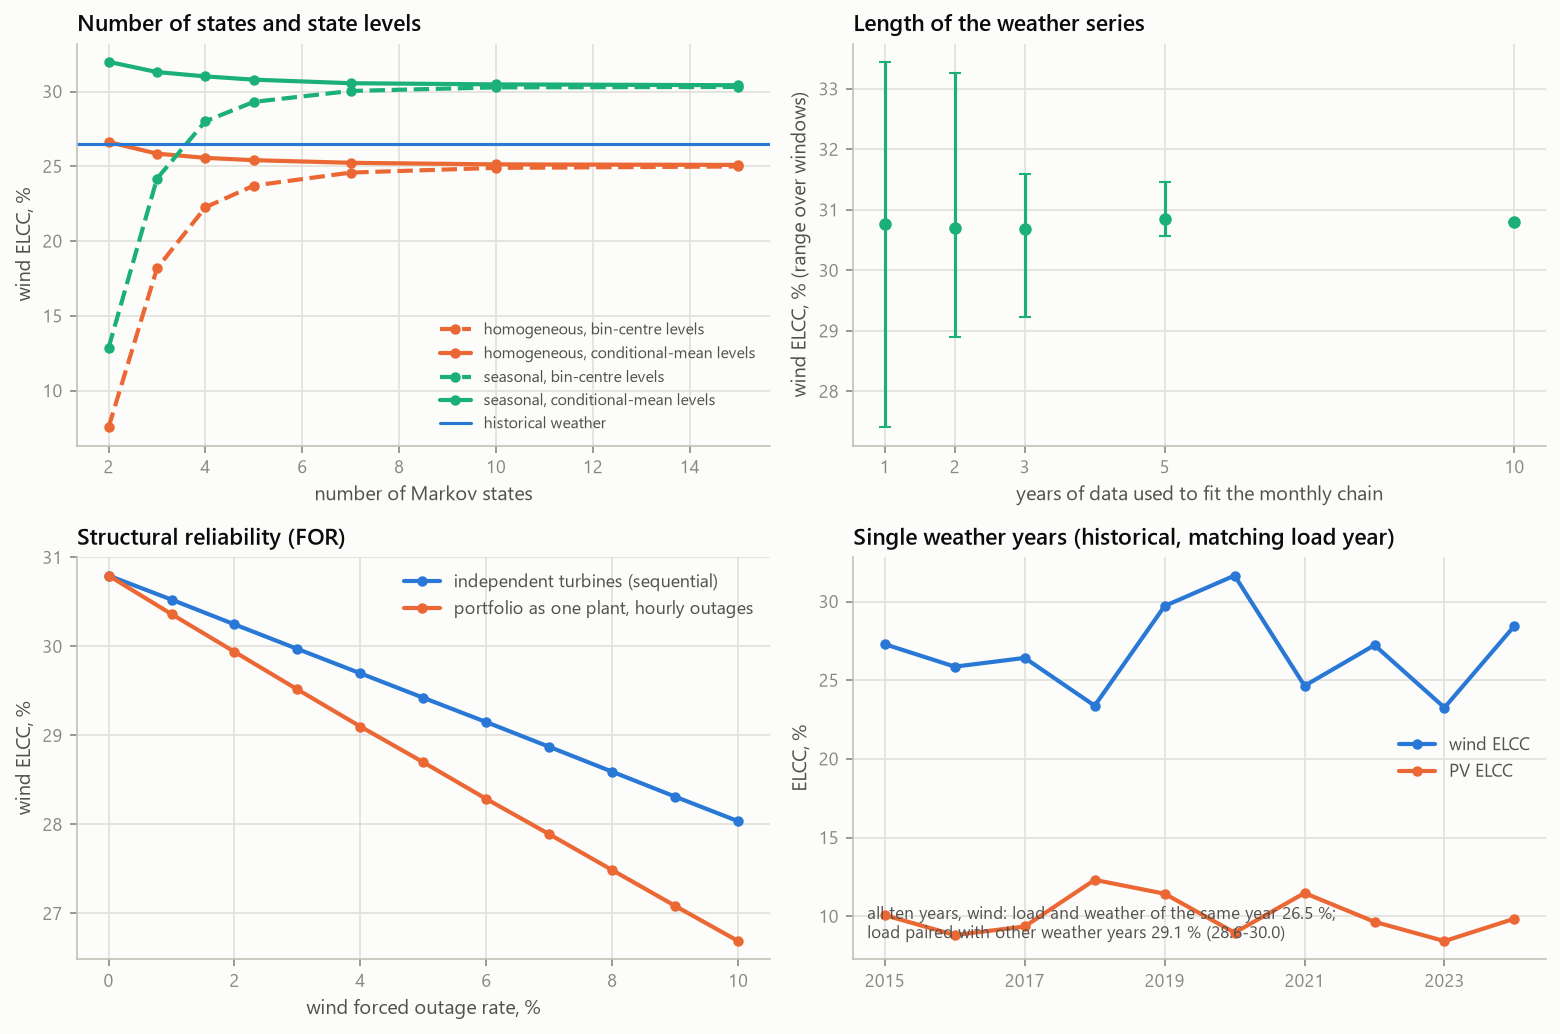
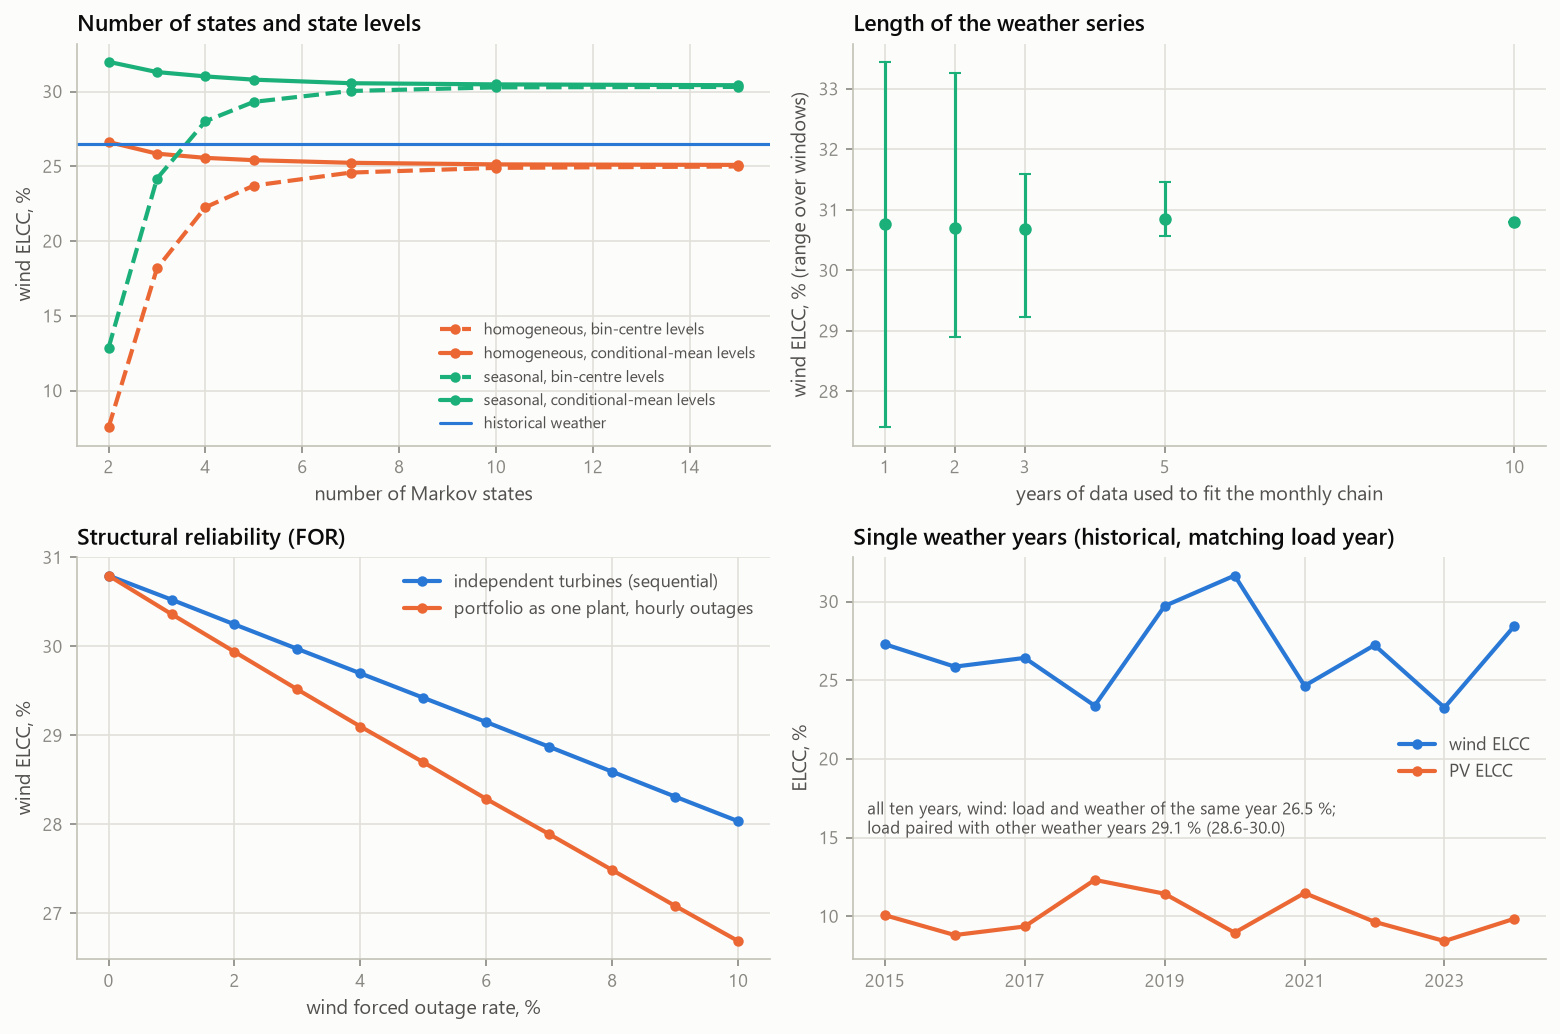
Charts: readable log ticks on the LOLE charts, labels off the curves
The dashboard's LOLE axes label only 1, 2 and 5 per decade (the 7, 8 and 9 labels overlapped). In the
README charts the KWD wind label and the weather-pairing note no longer sit on the PV curves.

Changed region(s): [[0.5538, 0.8665, 0.8615, 0.9284], [0.5538, 0.7737, 0.8615, 0.8046]]

diff --git a/docs/index.html b/docs/index.html
@@ -357,7 +357,7 @@ function drawLole() {
       hovertemplate: mix + ', ' + (model === 'hist' ? 'historical' : 'Markov monthly') + '<br>%{x:.0f} % of peak: LOLE %{y:.2f} h/yr<extra></extra>'});
   }
   const lay = base();
-  lay.yaxis = Object.assign(lay.yaxis, {type: 'log', title: {text: 'LOLE, h/yr'}});
+  lay.yaxis = Object.assign(lay.yaxis, {type: 'log', dtick: 'D2', title: {text: 'LOLE, h/yr'}});  // 1-2-5 labels only
   lay.xaxis = Object.assign(lay.xaxis, {title: {text: 'RES capacity, % of peak load'}});
   lay.shapes = [{type: 'line', xref: 'paper', x0: 0, x1: 1, y0: 3, y1: 3, line: {color: css('--muted'), width: 1, dash: 'dot'}}];
   Plotly.react('lole', tr, lay, cfg);
@@ -537,7 +537,7 @@ function drawStorageLulls() {
       hovertemplate: WM[m][1] + '<br>%{x:.0f} % wind + PV: LOLE %{y:.1f} h/yr<extra></extra>'};
   });
   const lay = base();
-  lay.yaxis = Object.assign(lay.yaxis, {type: 'log', title: {text: 'LOLE without storage, h/yr'}});
+  lay.yaxis = Object.assign(lay.yaxis, {type: 'log', dtick: 'D2', title: {text: 'LOLE without storage, h/yr'}});
   lay.xaxis = Object.assign(lay.xaxis, {title: {text: 'wind + PV share of annual demand, %'}});
   Plotly.react('slole', tr, roomy(lay), cfg);
   const tr2 = ms.map(m => {

diff --git a/src/res_reliability/figures.py b/src/res_reliability/figures.py
@@ -219,7 +219,8 @@ def elcc_curves(results_dir=RESULTS_DIR):
             pv = [k["pv"] for k in kwd]
             ax.axhspan(min(wv), max(wv), color=C1, alpha=0.10, linewidth=0)
             ax.axhspan(min(pv), max(pv), color=C2, alpha=0.12, linewidth=0)
-            ax.text(1, min(wv) - 0.3, f"KWD onshore wind {min(wv):.1f}-{max(wv):.1f} %", ha="left", va="top",
+            # below the band where no curve passes (the PV curves start at the band on the left)
+            ax.text(40, min(wv) - 0.3, f"KWD onshore wind {min(wv):.1f}-{max(wv):.1f} %", ha="left", va="top",
                     fontsize=8, color=INK2)
             ax.text(1, min(pv) - 0.3, f"KWD solar {min(pv):.1f}-{max(pv):.1f} %", ha="left", va="top",
                     fontsize=8, color=INK2)
@@ -301,11 +302,11 @@ def sensitivity(results_dir=RESULTS_DIR):
     if pair.exists():
         pr = pd.read_csv(pair)
         w = pr[pr["tech"] == "wind"]
-        ax.text(0.02, 0.04, "all ten years, wind: load and weather of the same year {:.1f} %;\n"
+        ax.text(0.02, 0.30, "all ten years, wind: load and weather of the same year {:.1f} %;\n"
                 "load paired with other weather years {:.1f} % ({:.1f}-{:.1f})".format(
                     w[w["matched"]]["elcc_pct"].iloc[0], w[~w["matched"]]["elcc_pct"].mean(),
                     w[~w["matched"]]["elcc_pct"].min(), w[~w["matched"]]["elcc_pct"].max()),
-                transform=ax.transAxes, fontsize=8, color=INK2, va="bottom")
+                transform=ax.transAxes, fontsize=8, color=INK2, va="bottom")  # in the gap between the wind and PV lines
     fig.tight_layout()
     return save(fig, "sensitivity.png")
 

diff --git a/src/res_reliability/dashboard.py b/src/res_reliability/dashboard.py
@@ -439,7 +439,7 @@ function drawLole() {
       hovertemplate: mix + ', ' + (model === 'hist' ? 'historical' : 'Markov monthly') + '<br>%{x:.0f} % of peak: LOLE %{y:.2f} h/yr<extra></extra>'});
   }
   const lay = base();
-  lay.yaxis = Object.assign(lay.yaxis, {type: 'log', title: {text: 'LOLE, h/yr'}});
+  lay.yaxis = Object.assign(lay.yaxis, {type: 'log', dtick: 'D2', title: {text: 'LOLE, h/yr'}});  // 1-2-5 labels only
   lay.xaxis = Object.assign(lay.xaxis, {title: {text: 'RES capacity, % of peak load'}});
   lay.shapes = [{type: 'line', xref: 'paper', x0: 0, x1: 1, y0: 3, y1: 3, line: {color: css('--muted'), width: 1, dash: 'dot'}}];
   Plotly.react('lole', tr, lay, cfg);
@@ -619,7 +619,7 @@ function drawStorageLulls() {
       hovertemplate: WM[m][1] + '<br>%{x:.0f} % wind + PV: LOLE %{y:.1f} h/yr<extra></extra>'};
   });
   const lay = base();
-  lay.yaxis = Object.assign(lay.yaxis, {type: 'log', title: {text: 'LOLE without storage, h/yr'}});
+  lay.yaxis = Object.assign(lay.yaxis, {type: 'log', dtick: 'D2', title: {text: 'LOLE without storage, h/yr'}});
   lay.xaxis = Object.assign(lay.xaxis, {title: {text: 'wind + PV share of annual demand, %'}});
   Plotly.react('slole', tr, roomy(lay), cfg);
   const tr2 = ms.map(m => {
